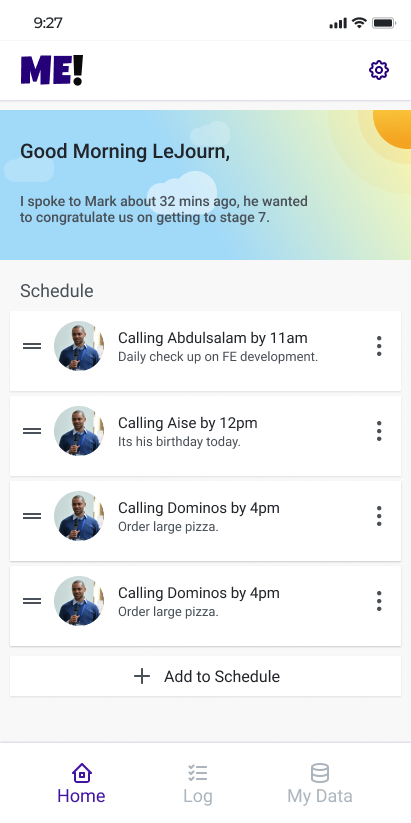
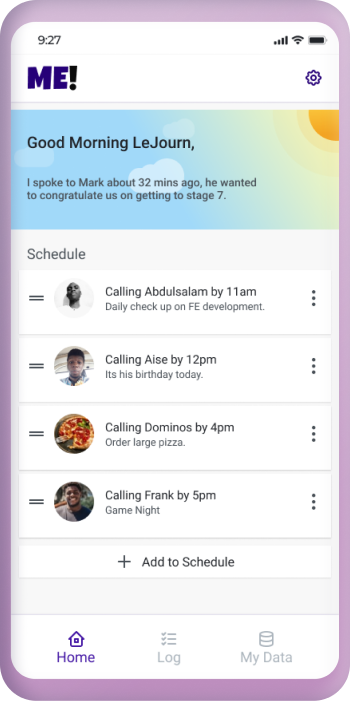
mockup added

diff --git a/index.html b/index.html
@@ -99,7 +99,7 @@
       <div class="scroll-indicator" id="section2" data-scroll-indicator-title="feature2"></div>
       <div class="container py-5">
         <div class="row align-items-center flex-md-row-reverse">
-          <img src="./images/home.png" alt="mockup" class="col-md-4 img img-fluid mockup" data-aos="zoom-in" data-aos-duration="3000">
+          <img src="./images/home 2.png" alt="mockup" class="col-md-4 img img-fluid " data-aos="zoom-in" data-aos-duration="3000">
   
           <div class="section_text col-md-8" data-aos="zoom-out" data-aos-duration="2000">
             <h2 class="heading">ME! <br>
@@ -130,7 +130,7 @@
       <div class="container py-5">
 
         <div class="row align-items-center">
-          <img src="./images/home.png" alt="mockup" class="col-md-4 img mockup" data-aos="zoom-in" data-aos-duration="3000">
+          <img src="./images/mockup3.png" alt="mockup" class="col-md-4 img mockup" data-aos="zoom-in" data-aos-duration="3000">
   
           <div class="section_text col-md-8" data-aos="zoom-out" data-aos-duration="2000">
             <h2 class="heading">ME! <br>
@@ -148,17 +148,17 @@
     <section class="carousel-section">
       <div class="scroll-indicator" id="carousel" data-scroll-indicator-title="screenshots"></div>
       <div class="center">
-        <img src="./images/welcome.png" alt="" class="mockup  m-4 mockup-plain" data-aos="zoom-in">
-        <img src="./images/sign-up.png" alt="" class="mockup  m-4 mockup-plain" data-aos="zoom-in">
+        <img src="./images/end.png" alt="" class="mockup  m-4 mockup-plain" data-aos="zoom-in">
+        <img src="./images/home 2.png" alt="" class="mockup  m-4 mockup-plain" data-aos="zoom-in">
         <img src="./images/home.png" alt="" class="mockup  m-4 mockup-plain" data-aos="zoom-in">
         <img src="./images/welcome.png" alt="" class="mockup  m-4 mockup-plain" data-aos="zoom-in">
         <img src="./images/sign-up.png" alt="" class="mockup  m-4 mockup-plain" data-aos="zoom-in">
-        <img src="./images/home.png" alt="" class="mockup  m-4 mockup-plain" data-aos="zoom-in">
+        <img src="./images/mockup3.png" alt="" class="mockup  m-4 mockup-plain" data-aos="zoom-in">
 
       </div>
     </section>
- 
   </main>
+ 
 
   <footer class="footer  text-center">
     <div class="container">

diff --git a/css/style.css b/css/style.css
@@ -236,13 +236,16 @@ body {
     width: 40%;
     /* z-index: -1; */
 }
-.mockup {
+/* .mockup {
     /* width: 100%; */
-    border-radius: 50px;
-}
-.mockup-plain {
-    border: 5px inset  #C4C4C4;
-}
+    /* border-radius: 50px; */
+    /* background: linear-gradient(138.27deg, #D4BAD6 15.61%, #BC8EBE 79.85%); */
+/* box-shadow: inset -40px 0px 80px rgba(255, 255, 255, 0.3), inset 40px 0px 80px rgba(18, 9, 55, 0.3); */
+/* border-radius: 150px; */
+} */
+/* .mockup-plain { */
+    /* border: 5px inset  #C4C4C4;
+} */
 
 .mockup:hover {
     animation: pulsate 1s infinite;
